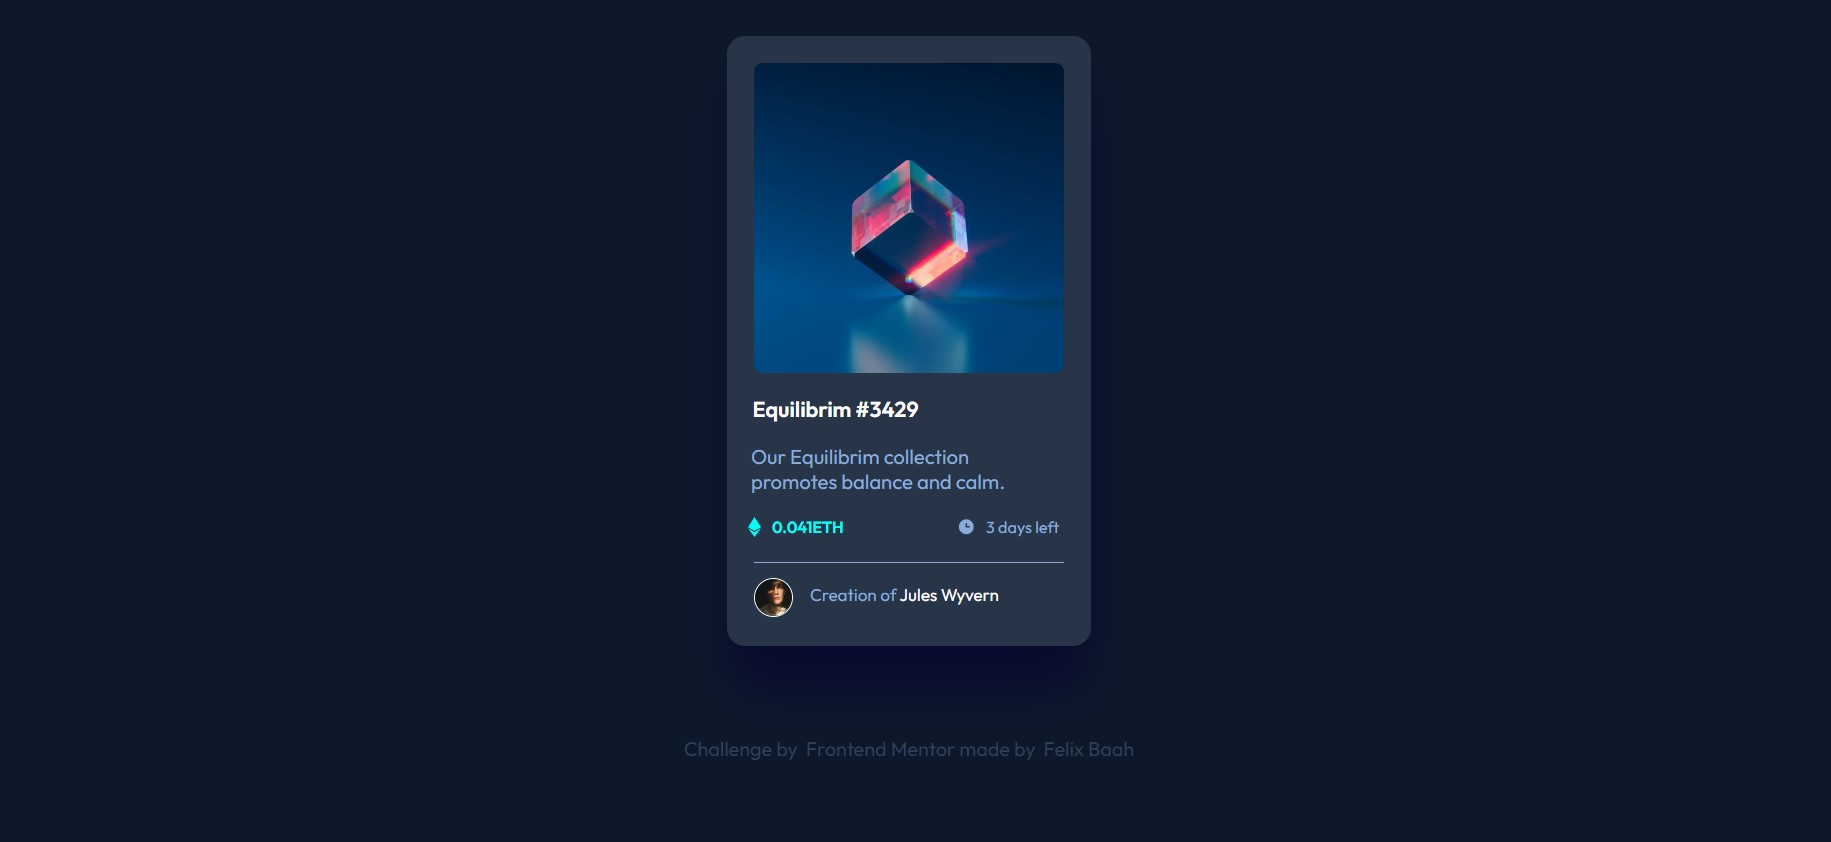
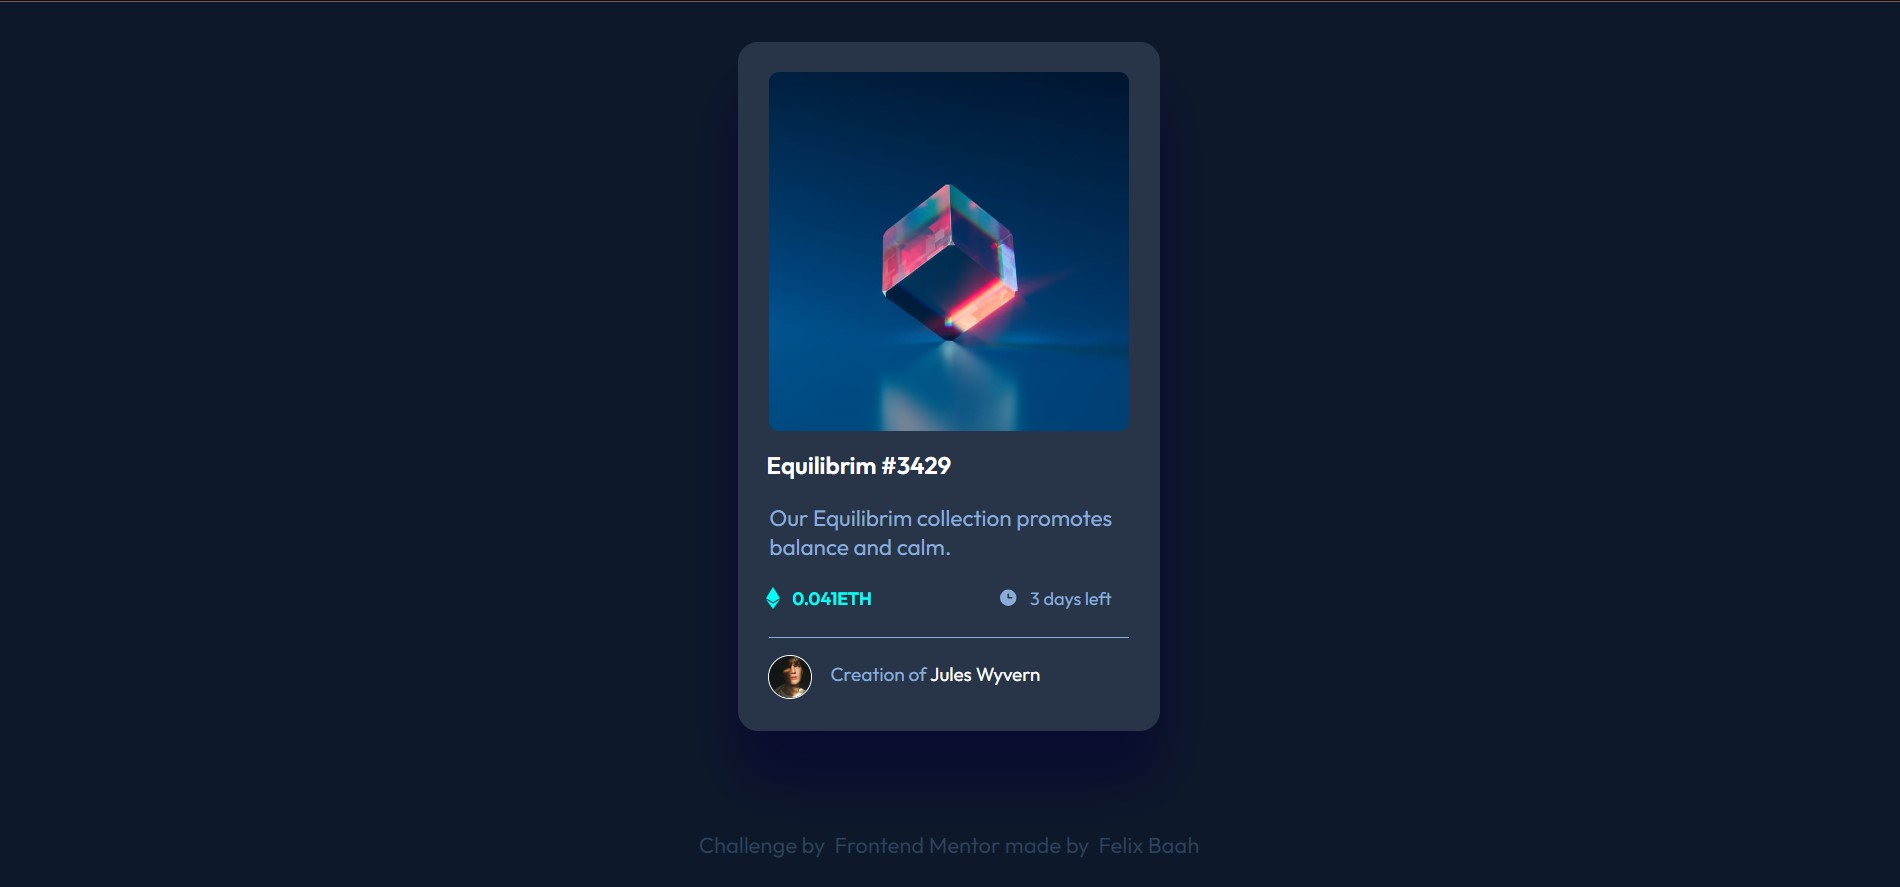
made chnages to the media queries and width

diff --git a/style.css b/style.css
@@ -30,8 +30,7 @@ body{
     margin:5em auto;
     justify-content: center;
     align-items: center;
-    width:20vw;
-    width:20vw;
+    width:19vw;
     height: auto;
     background-color: var(--card-background-color);
     border-radius: 1em;
@@ -42,19 +41,49 @@ body{
 }
 
 figure{
+    display: flex;
+    justify-content: center;
+    align-items: center;
+    position: relative;
     width:85%;
     height: 45%;
     margin-top: 1em;
     margin-right:auto;
     margin-left: auto;
-    border-radius: 1em;
+    border-radius: 0.5em;
 }
+
+figure {
+    position: relative;
+}
+  
+figure .icon-img {
+    position: absolute;
+    text-align: center;
+    opacity: 0;
+    transition: opacity 0.2s ease;
+}
+  
+figure:hover .icon-img {
+   opacity: 1;
+}
+  
 
 .card-img{
     width:100%;
     height: 100%;
     object-fit: cover;
     border-radius: 0.5em;
+}
+
+.card-img:hover{
+    opacity: 0.4;
+}
+
+
+figure:hover{
+    cursor: pointer;
+    background: var(--eth-price-color);
 }
 
 .title{
@@ -65,10 +94,15 @@ figure{
     padding-top:0.8em;
 }
 
+.title:hover{
+    color: var(--eth-price-color);
+    cursor: pointer;
+}
+
 .description{
     font-size: 18px;
     font-family: var(--font-style);
-    padding-left: 1.2em;
+    padding-left: 1.4em;
     padding-top:1em;
     color: var(--text-color);
     font-weight:500;
@@ -76,7 +110,7 @@ figure{
 
 .billboard{
     display: flex;
-    padding-left: 1.2em;
+    padding-left: 1.4em;
     padding-top: 1.3em;
     margin-bottom: 1.2em;
 }
@@ -128,6 +162,11 @@ hr{
     color: var(--text-num-color);
 }
 
+.prof-name:hover{
+    color: var(--eth-price-color);
+    cursor: pointer;
+}
+
 .prof-name-creation{
     color: var(--text-color);
 }
@@ -168,7 +207,7 @@ hr{
         margin-top: 2em;
         justify-content: center;
         align-items: center;
-        width:92vw;
+        width:90vw;
         height: auto;
     }
     hr{
@@ -177,6 +216,10 @@ hr{
         height: 1px !important;
         background-color: var(--text-color) !important;
         margin: 0em auto;
+    }
+
+    .eth-price{
+        padding-right: 6em;
     }
     
 
@@ -196,6 +239,9 @@ hr{
     .description{
         padding-right: 2em;
     }
+    .eth-price{
+        padding-right: 6em;
+    }
 
     .made-by{
         margin-bottom: 1em;
@@ -214,6 +260,9 @@ hr{
     .made-by{
         margin-bottom: 1em;
     }
+    .eth-price{
+        padding-right: 6em;
+    }
 
 }
 
@@ -227,6 +276,9 @@ hr{
 
     .made-by{
         margin-bottom: 1em;
+    }
+    .eth-price{
+        padding-right: 6em;
     }
 
 }
@@ -264,6 +316,9 @@ hr{
     .made-by{
         margin-bottom: 1em;
     }
+    .eth-price{
+        padding-right: 5em;
+    }
 
 }
 
@@ -282,24 +337,50 @@ hr{
     .made-by{
         margin-bottom: 1em;
     }
+    .eth-price{
+        padding-right: 6em;
+    }
 
 }
 
-@media (min-width:1440px){
+@media (min-width:1440px) and (max-width:2000px){
     .card-component{
         margin-top: 2em;
         justify-content: center;
         align-items: center;
-        width:21vw;
+        width:22vw;
         height: auto;
     }
 
     .description{
         padding-right: 2em;
+        font-size: 1.125em;
     }
     .eth-price{
-        
-        padding-right: 5.5em;
+        padding-right: 7em;
+    }
+
+    .made-by{
+        margin-bottom: 1em;
+    }
+
+}
+
+@media (min-width:2000px) and (max-width:2140px){
+    .card-component{
+        margin-top: 2em;
+        justify-content: center;
+        align-items: center;
+        width:19.5vw;
+        height: auto;
+    }
+
+    .description{
+        padding-right: 2em;
+        font-size: 0.97em;
+    }
+    .eth-price{
+        padding-right: 4em;
     }
 
     .made-by{

diff --git a/index.html b/index.html
@@ -17,12 +17,11 @@
   <body>
     <main>
       <div class="card-component">
-        <figure class="nft">
-          <img src="images/image-equilibrium.jpg" 
-          alt="card image" 
-          class="card-img"
-          >
+        <figure>
+          <img src="images/image-equilibrium.jpg" alt="card image" class="card-img">
+          <img src="images/icon-view.svg" alt="icon" class="icon-img">
         </figure>
+        
         <header class="title">
           <strong>Equilibrim #3429</strong> 
         </header>
